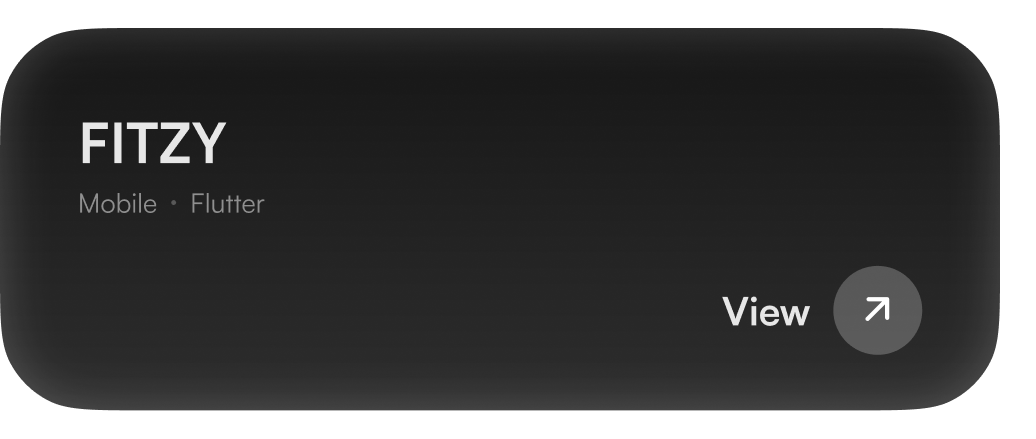
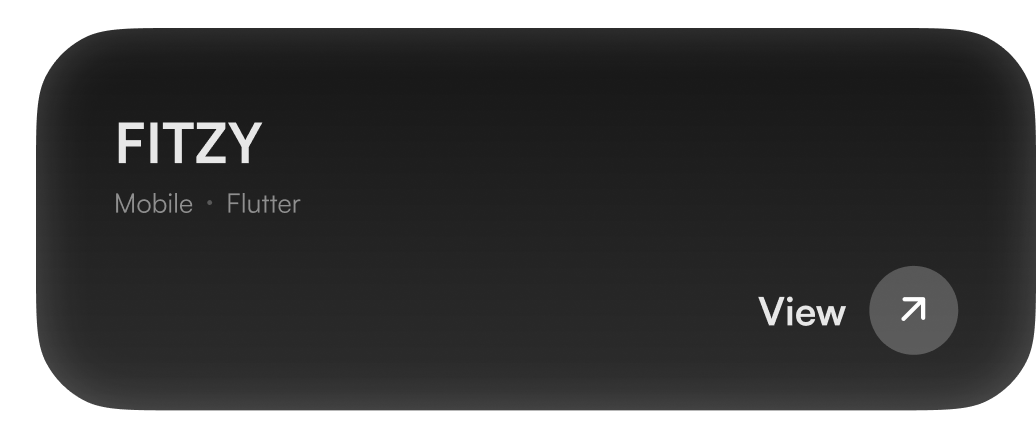
design: Selected Works 구성 변경 — 뽀바보자 추가, ABA 제거, 카드 순서 재배치

Changed region(s): [[0.0, 0.0592, 0.3089, 0.9476], [0.8649, 0.0592, 1.0, 0.9476], [0.6795, 0.5923, 0.9266, 0.8292]]

diff --git a/README.md b/README.md
@@ -18,9 +18,9 @@
 <div align="center">
 
 <a href="https://github.com/cherrymixy/pure-web"><picture><source media="(prefers-color-scheme: dark)" srcset="./assets/pure-web-dark.png"><img src="./assets/pure-web-light.png" width="50%" alt="PURE Web — 브랜드 가이드로 AI가 로봇의 모션체를 만들고 MuJoCo로 재생하는 웹"></picture></a><a href="https://github.com/cherrymixy/pure-app"><picture><source media="(prefers-color-scheme: dark)" srcset="./assets/pure-app-dark.png"><img src="./assets/pure-app-light.png" width="50%" alt="PURE App — AI가 만드는 PURE Desk 로봇의 움직임을 실시간 재생하는 앱"></picture></a>
-<a href="https://github.com/cherrymixy/Cature"><picture><source media="(prefers-color-scheme: dark)" srcset="./assets/w01-dark.png"><img src="./assets/w01-light.png" width="50%" alt="Cature — 도시 속 생명을 발견하고 AR로 다시 만나는 iOS 앱"></picture></a><a href="https://github.com/cherrymixy/black-magic"><picture><source media="(prefers-color-scheme: dark)" srcset="./assets/w02-dark.png"><img src="./assets/w02-light.png" width="50%" alt="Black Magic — Y2K 하이틴 변신 인터랙티브 웹 게임"></picture></a>
+<a href="https://github.com/cherrymixy/Cature"><picture><source media="(prefers-color-scheme: dark)" srcset="./assets/w01-dark.png"><img src="./assets/w01-light.png" width="50%" alt="Cature — 도시 속 생명을 발견하고 AR로 다시 만나는 iOS 앱"></picture></a><a href="https://github.com/cherrymixy/fitzy"><picture><source media="(prefers-color-scheme: dark)" srcset="./assets/w05-dark.png"><img src="./assets/w05-light.png" width="50%" alt="FITZY — 9칸 보드를 사진으로 채우는 데일리 무드 기록 앱"></picture></a>
+<a href="https://github.com/cherrymixy/ssukkaboja"><picture><source media="(prefers-color-scheme: dark)" srcset="./assets/ssukkaboja-dark.png"><img src="./assets/ssukkaboja-light.png" width="50%" alt="뽀바보자 — 엉뚱한 재료 세 가지로 AI가 아이디어를 뽑아주는 앱인토스 미니앱"></picture></a><a href="https://github.com/cherrymixy/black-magic"><picture><source media="(prefers-color-scheme: dark)" srcset="./assets/w02-dark.png"><img src="./assets/w02-light.png" width="50%" alt="Black Magic — Y2K 하이틴 변신 인터랙티브 웹 게임"></picture></a>
 <a href="https://github.com/cherrymixy/GrapeVine"><picture><source media="(prefers-color-scheme: dark)" srcset="./assets/w03-dark.png"><img src="./assets/w03-light.png" width="50%" alt="Grape Vine — 친구의 칭찬이 포도알로 자라는 칭찬 넝쿨"></picture></a><a href="https://github.com/cherrymixy/HAL9000"><picture><source media="(prefers-color-scheme: dark)" srcset="./assets/w04-dark.png"><img src="./assets/w04-light.png" width="50%" alt="HAL 9000 — 2001 스페이스 오디세이 테마 인터랙티브 랜딩"></picture></a>
-<a href="https://github.com/cherrymixy/fitzy"><picture><source media="(prefers-color-scheme: dark)" srcset="./assets/w05-dark.png"><img src="./assets/w05-light.png" width="50%" alt="FITZY — 9칸 보드를 사진으로 채우는 데일리 무드 기록 앱"></picture></a><a href="https://github.com/cherrymixy/ABA"><picture><source media="(prefers-color-scheme: dark)" srcset="./assets/w06-dark.png"><img src="./assets/w06-light.png" width="50%" alt="ABA — 브로콜리 반대 협회, 풍자 스크롤리텔링"></picture></a>
 
 </div>
 
